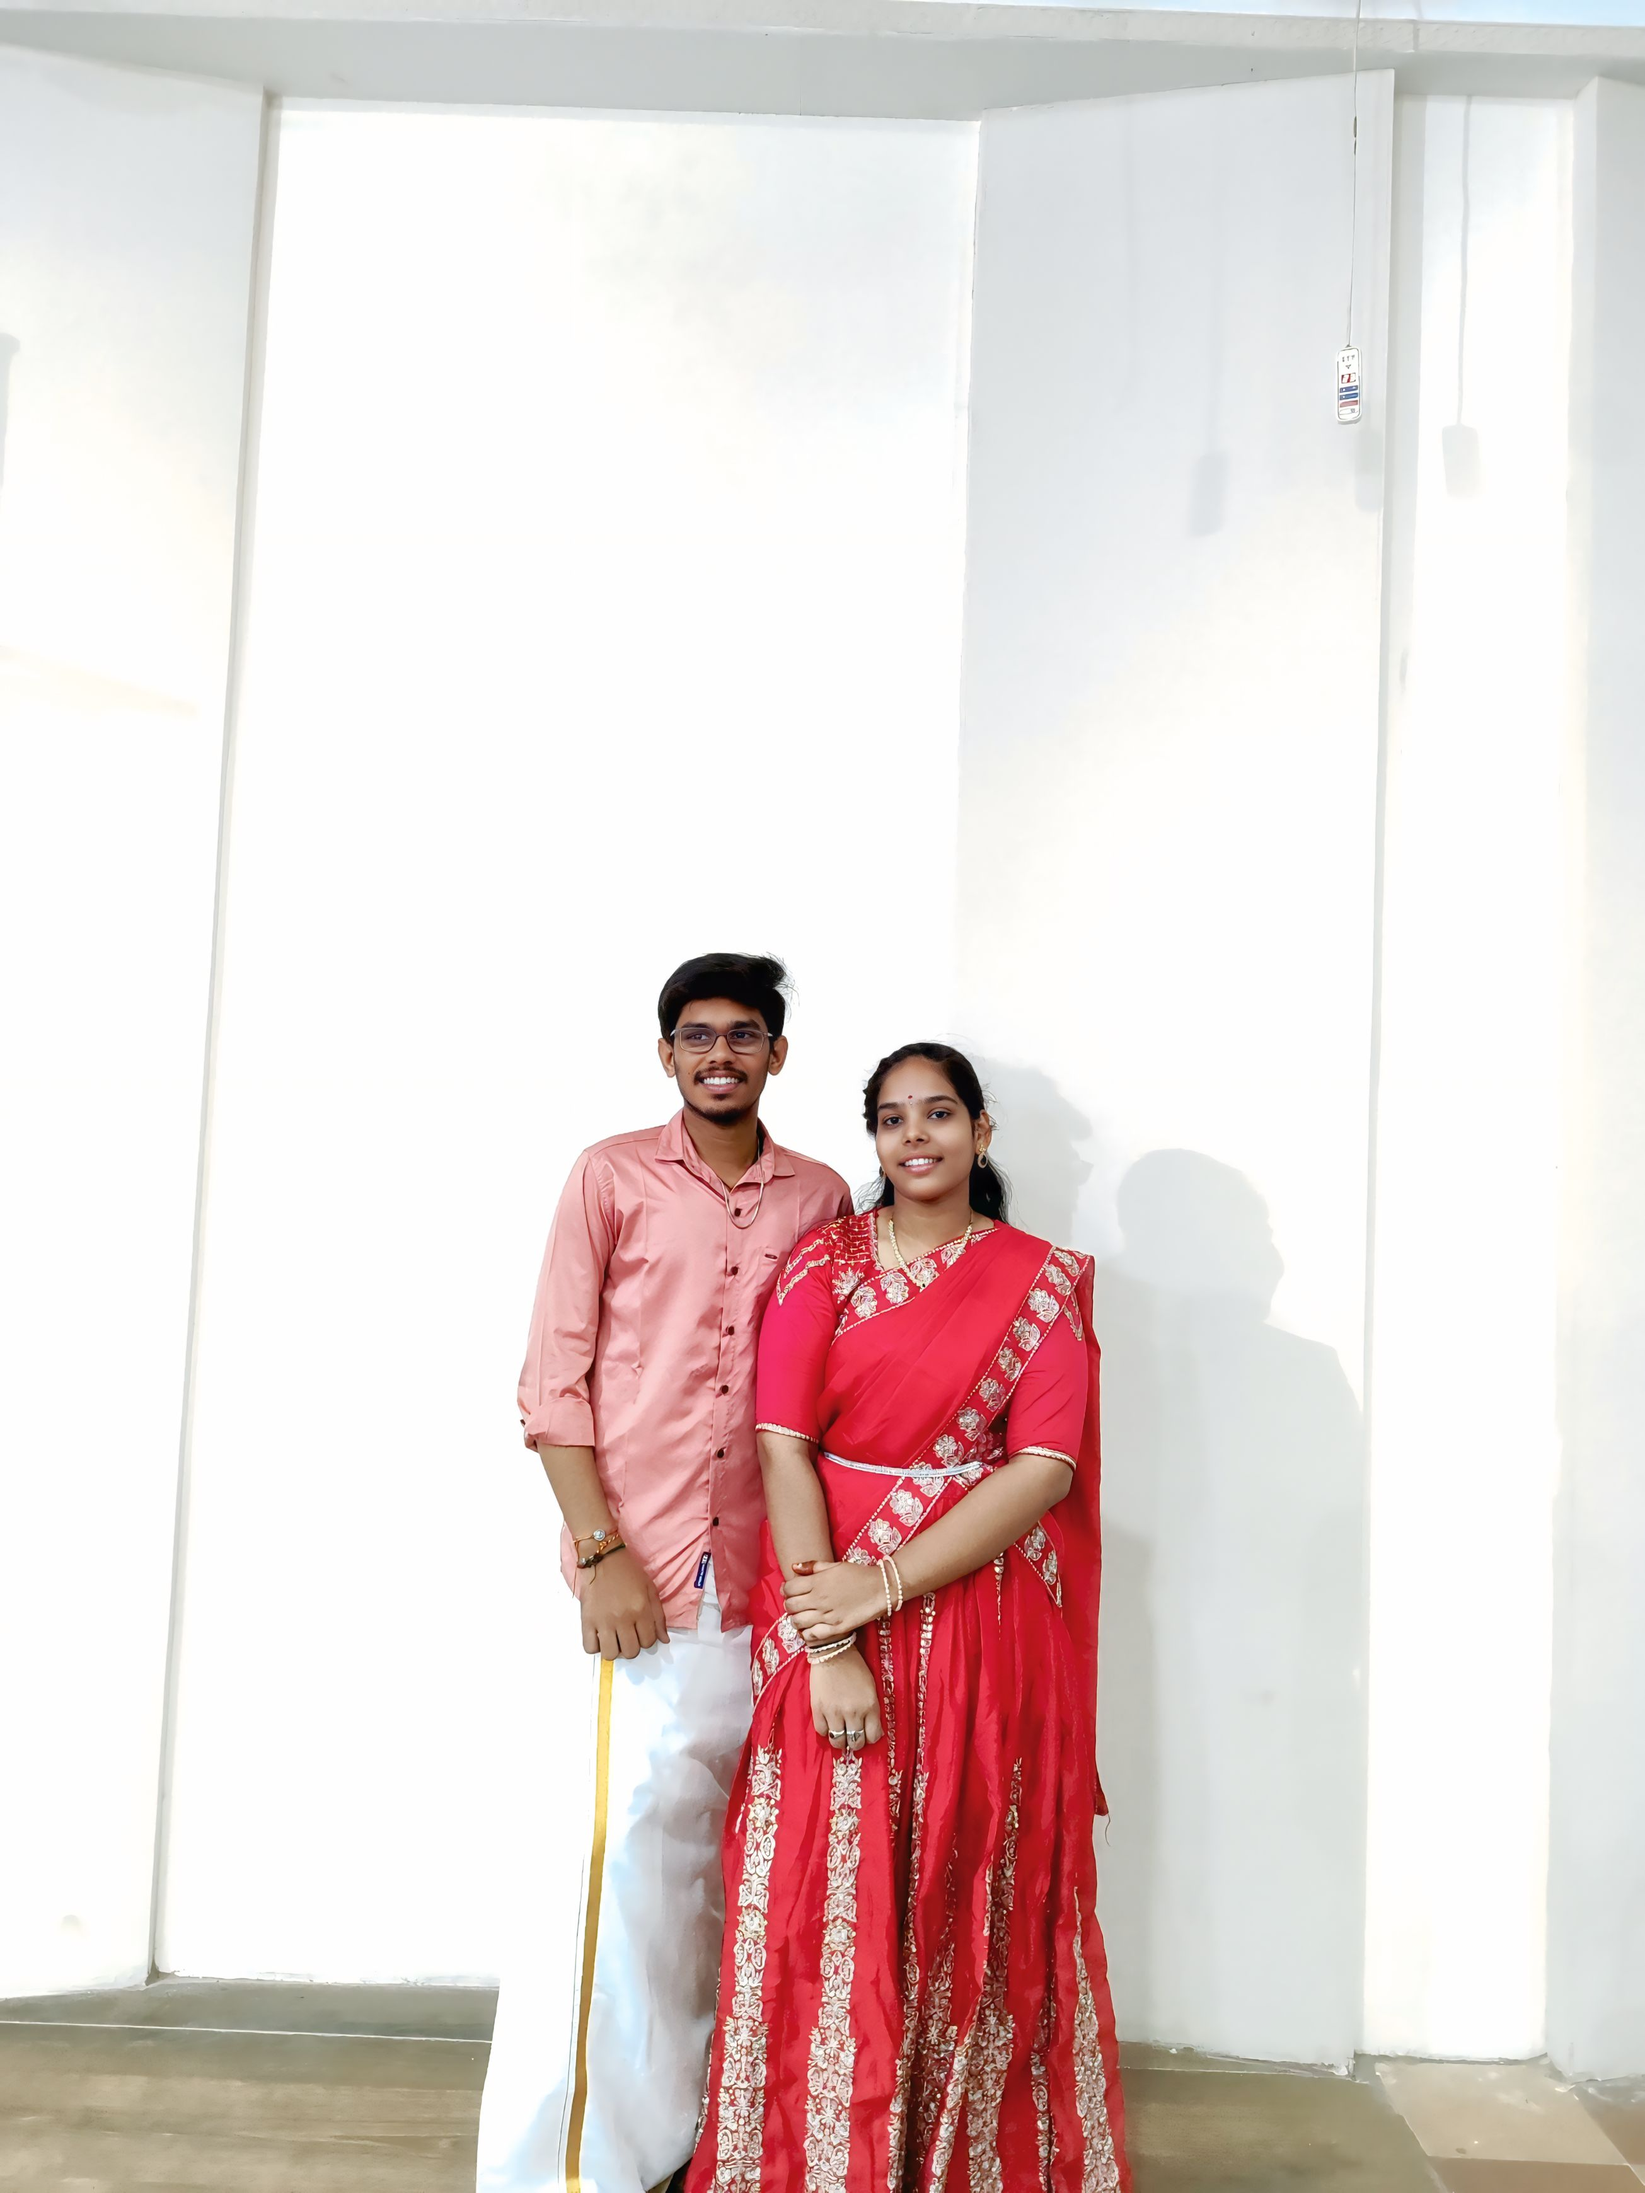
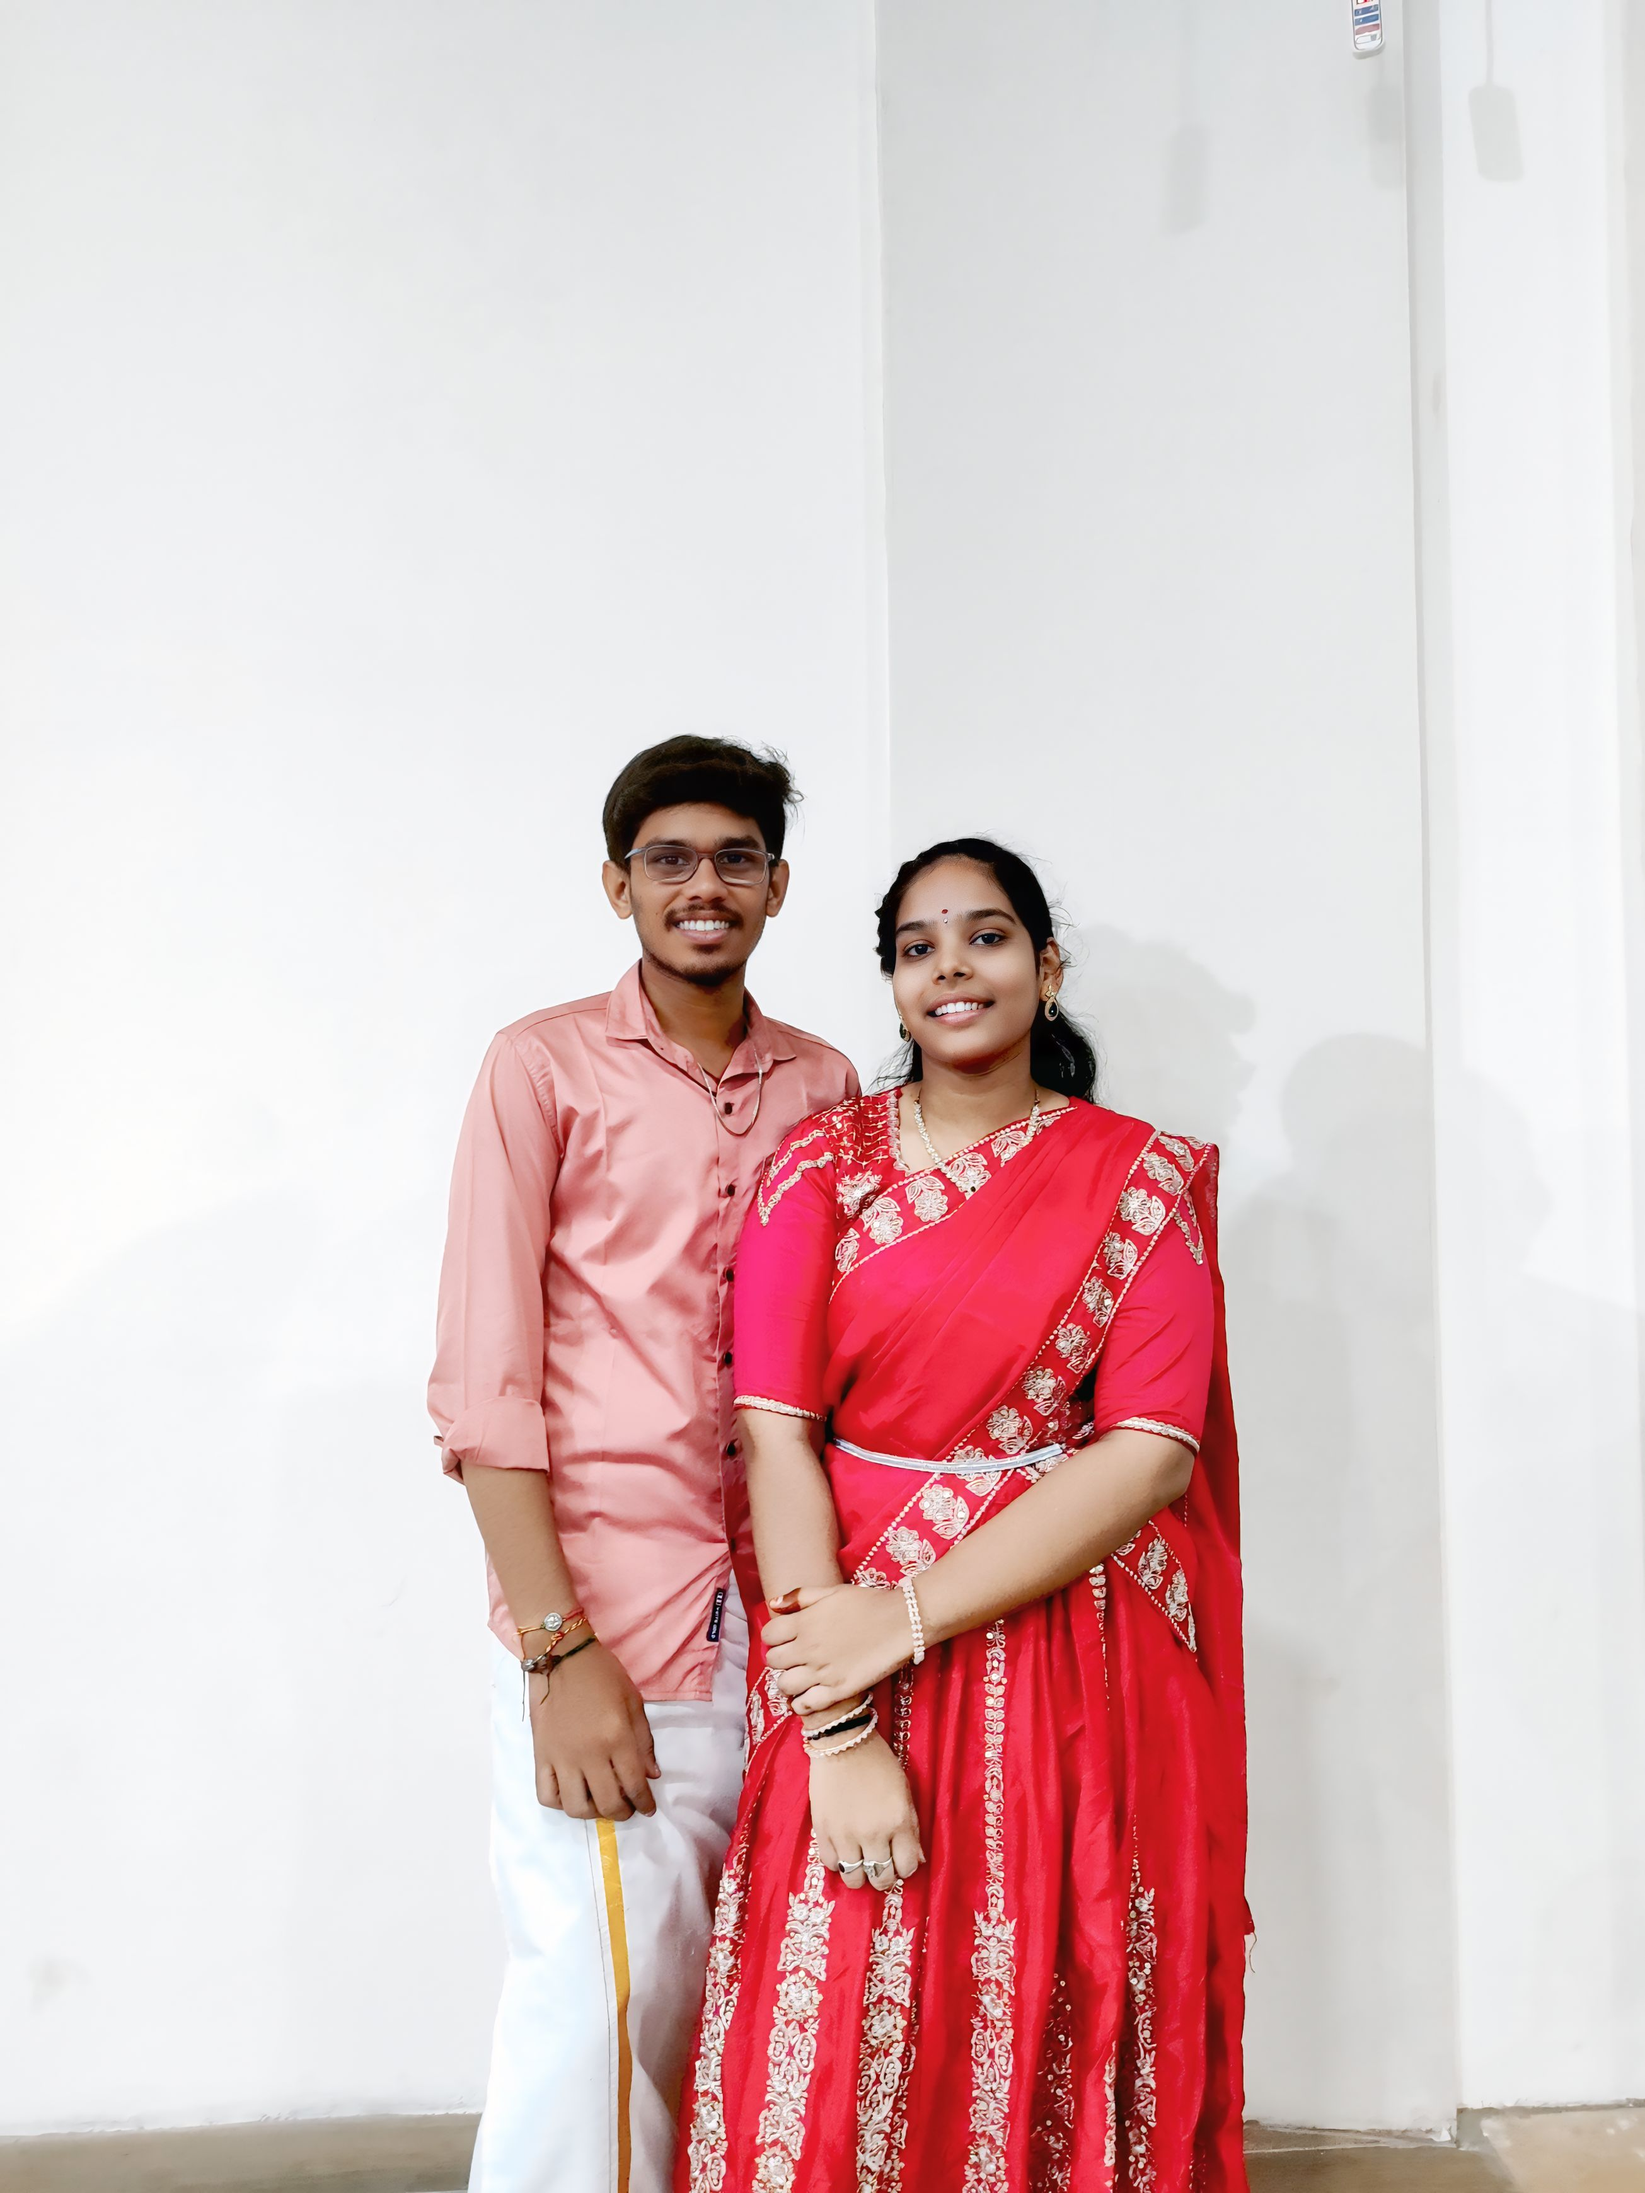
updated pics

diff --git a/src/BirthdaySurprise.jsx b/src/BirthdaySurprise.jsx
@@ -48,7 +48,7 @@ const ownerLog = {
 const CORRECT_NAME  = "kukkapilla";
 const SWIPE_MIN     = 80;
 const LONG_PRESS    = 600;
-const BIRTHDAY_DATE = new Date("2026-04-18");
+const BIRTHDAY_DATE = new Date("2026-04-03");
 
 const PHOTOS = [
   { src:"photos/photo1.jpg",  label:"First photo 💖",           msg:"💖 First Photo andhariki special ay but mana first photo edho general ga jarigipoyindhi but first time oka ammai nanu photo adigindhi🥹🫂" },
@@ -57,13 +57,10 @@ const PHOTOS = [
   { src:"photos/photo4.jpg",  label:"💕 saree",                 msg:"actual ga saree kadathava ledha ani doubt but bale vunnav ahh saree lo🙈💕" },
   { src:"photos/photo5.jpg",  label:"💗 Authority",             msg:"idhi one of my favourite pic ee pic lo nuvvu chuppinchina authority ki padipoya actual ga 😒💗" },
   { src:"photos/photo6.jpg",  label:"💗 Special Pic",           msg:"This pic made me fall for you every time. 💗" },
-  { src:"photos/photo7.jpg",  label:"💗 Special Day",           msg:"Making memories together. 💗" },
-  { src:"photos/photo8.jpg",  label:"💗 Special Day",           msg:"Making memories together. 💗" },
   { src:"photos/photo9.jpg",  label:"💗 My Kukkapilla",         msg:"naa kukkapilla nannu owner ga accepted cheysi pampina memory 💗" },
   { src:"photos/photo10.jpg", label:"💗 Celestra 2k25",         msg:"ee pic value appudu theliyaledhu but malli ila neetho pic theysukovali ani vundhi 🫠💗" },
   { src:"photos/photo11.jpg", label:"💗 forever mine",          msg:"ee pic ni eni sarlu chussina edho special feeling the way you looks at me🙈💗" },
   { src:"photos/photo14.jpg", label:"💗 the day i fall",        msg:"nuvvu call cheysi manchi shirt veysukuni raa ledhaa paguludhi ah feel emoo💗" },
-  { src:"photos/photo18.jpg", label:"💗 Special Day",           msg:"Making memories together. 💗" },
   { src:"photos/photo19.jpg", label:"💗 something special",     msg:"ee pic ante naaku gurthochedhi ahh hand placement 🫠😅💗" },
   { src:"photos/photo20.jpg", label:"💗 trails for this pic",   msg:"entha try cheysa okasari ayyina cooperate cheysava pandhi laga 😒" },
   { src:"photos/photo21.jpg", label:"💗 Celestra 2k26",         msg:"pic crop cheysaka ala vundhoo ledha mana presence oo thelidh but it has been bagged into my favs💗" },
